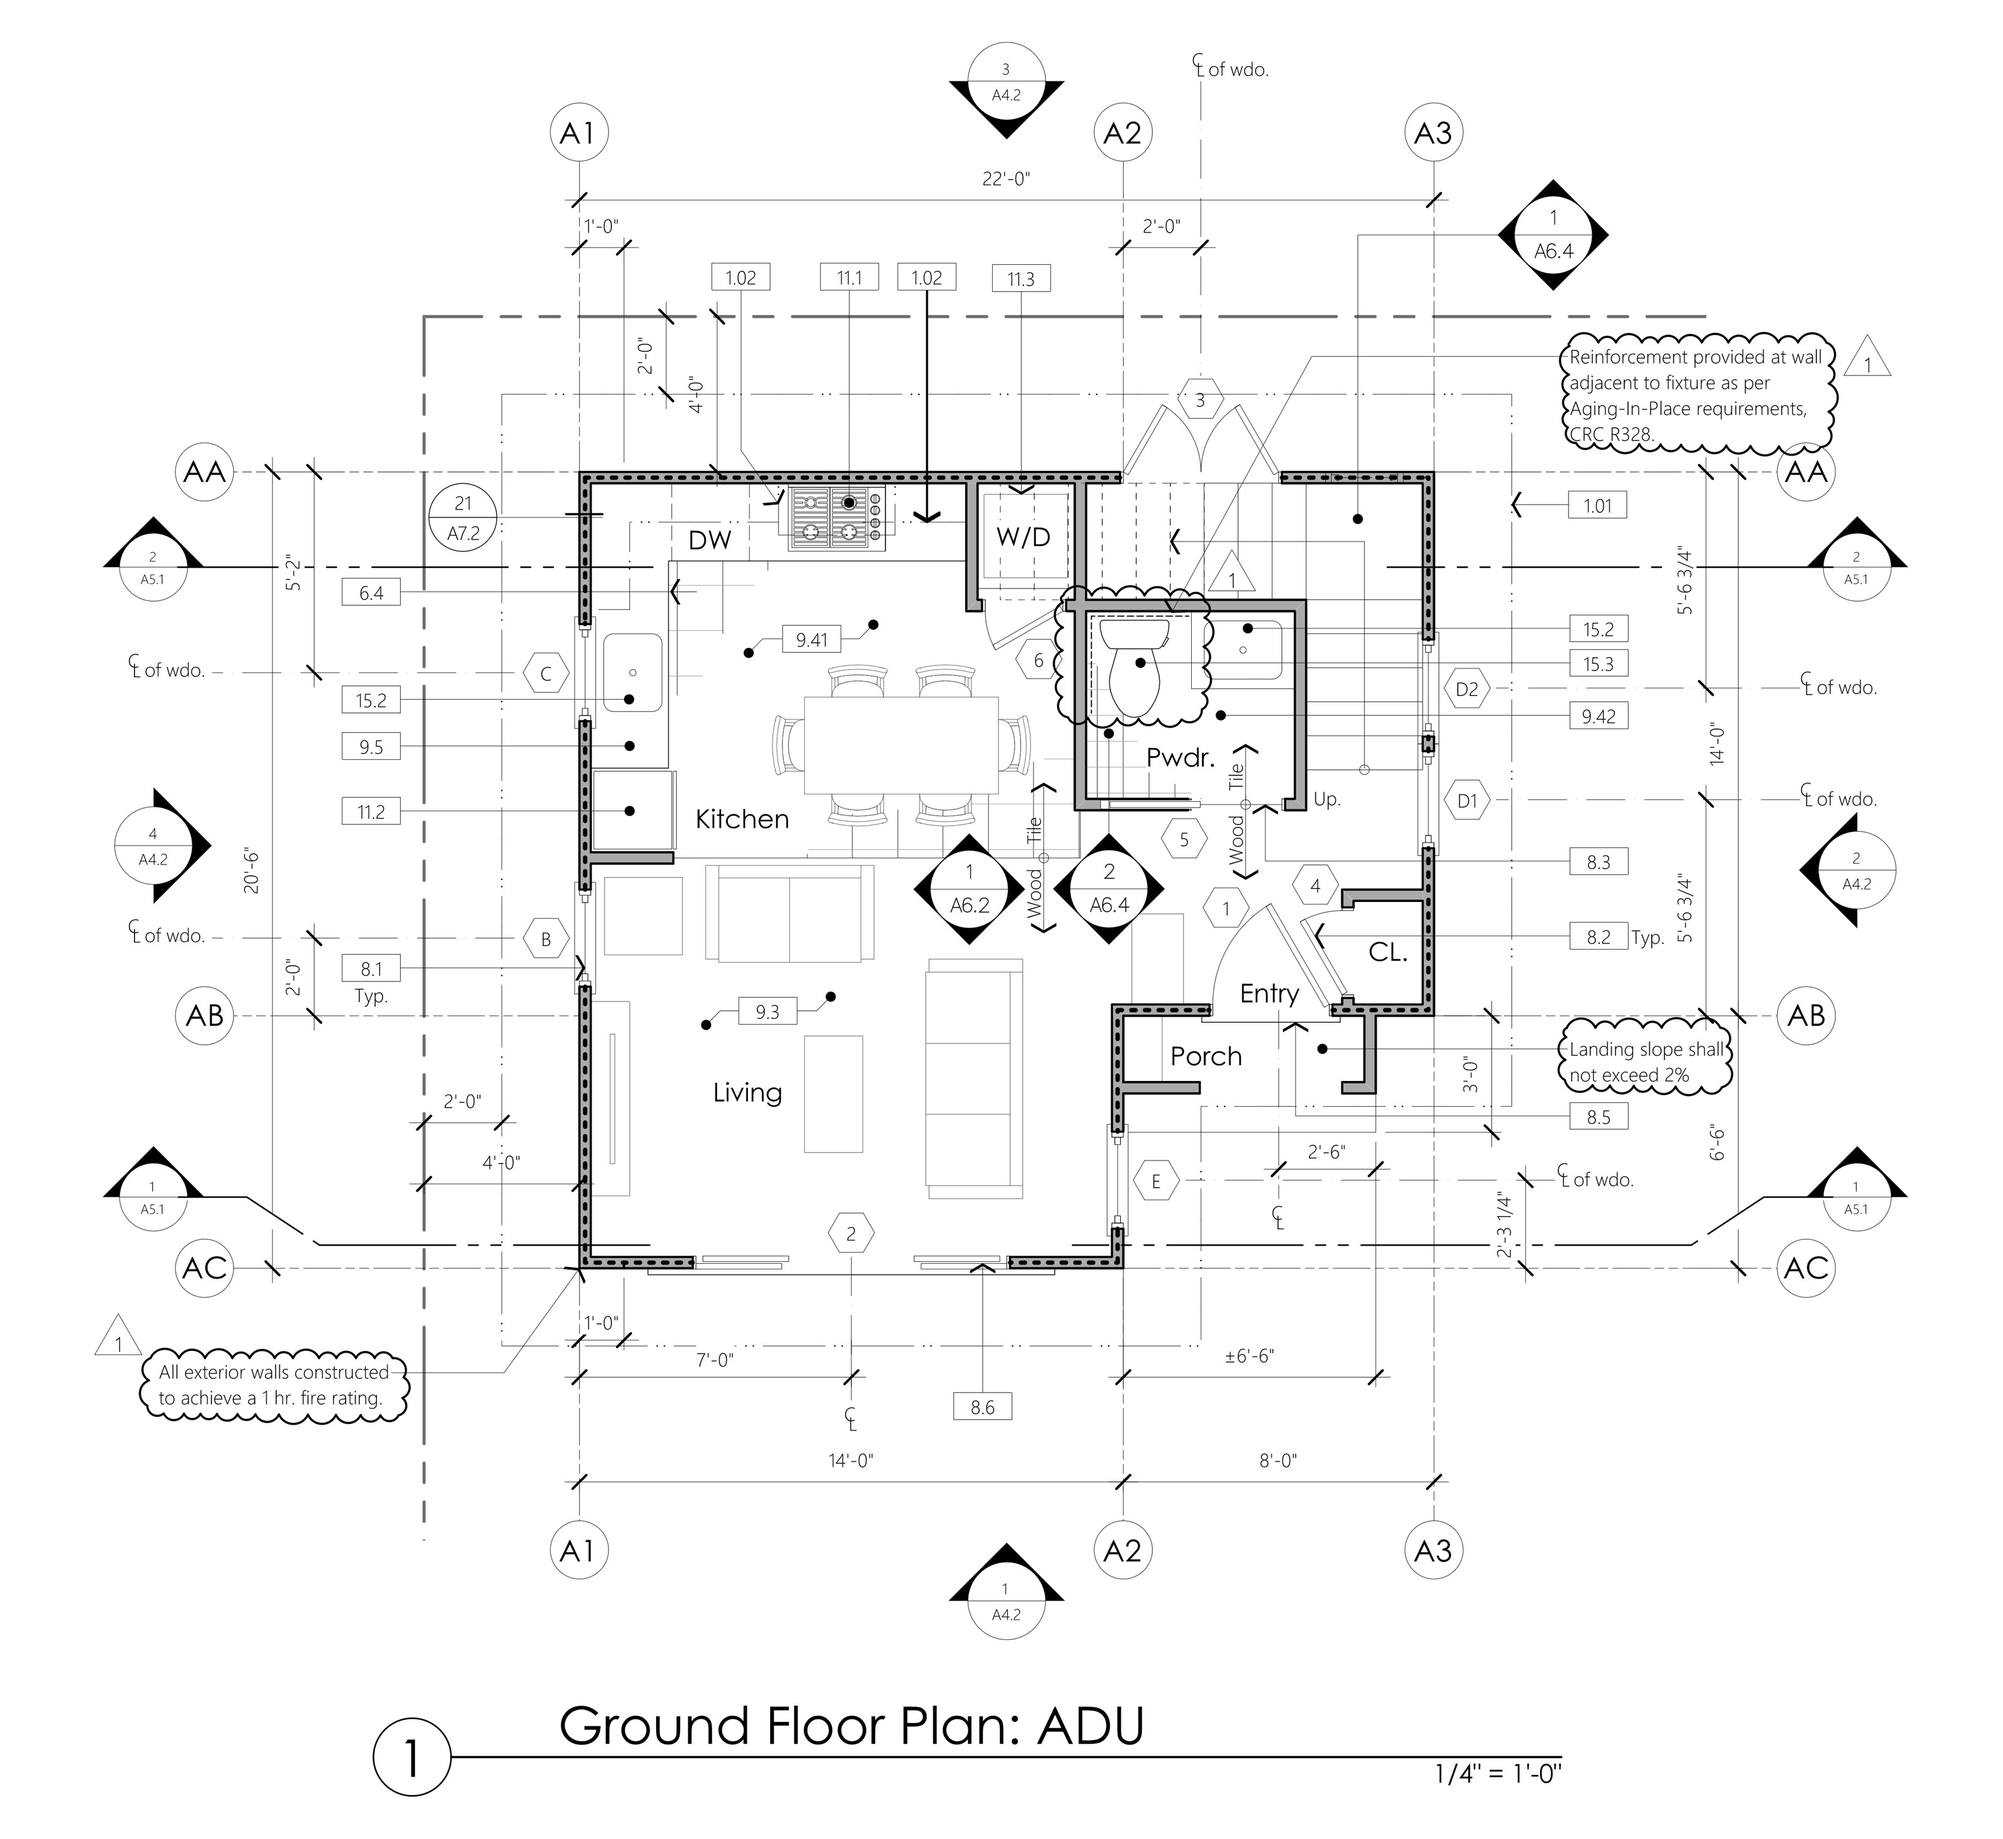
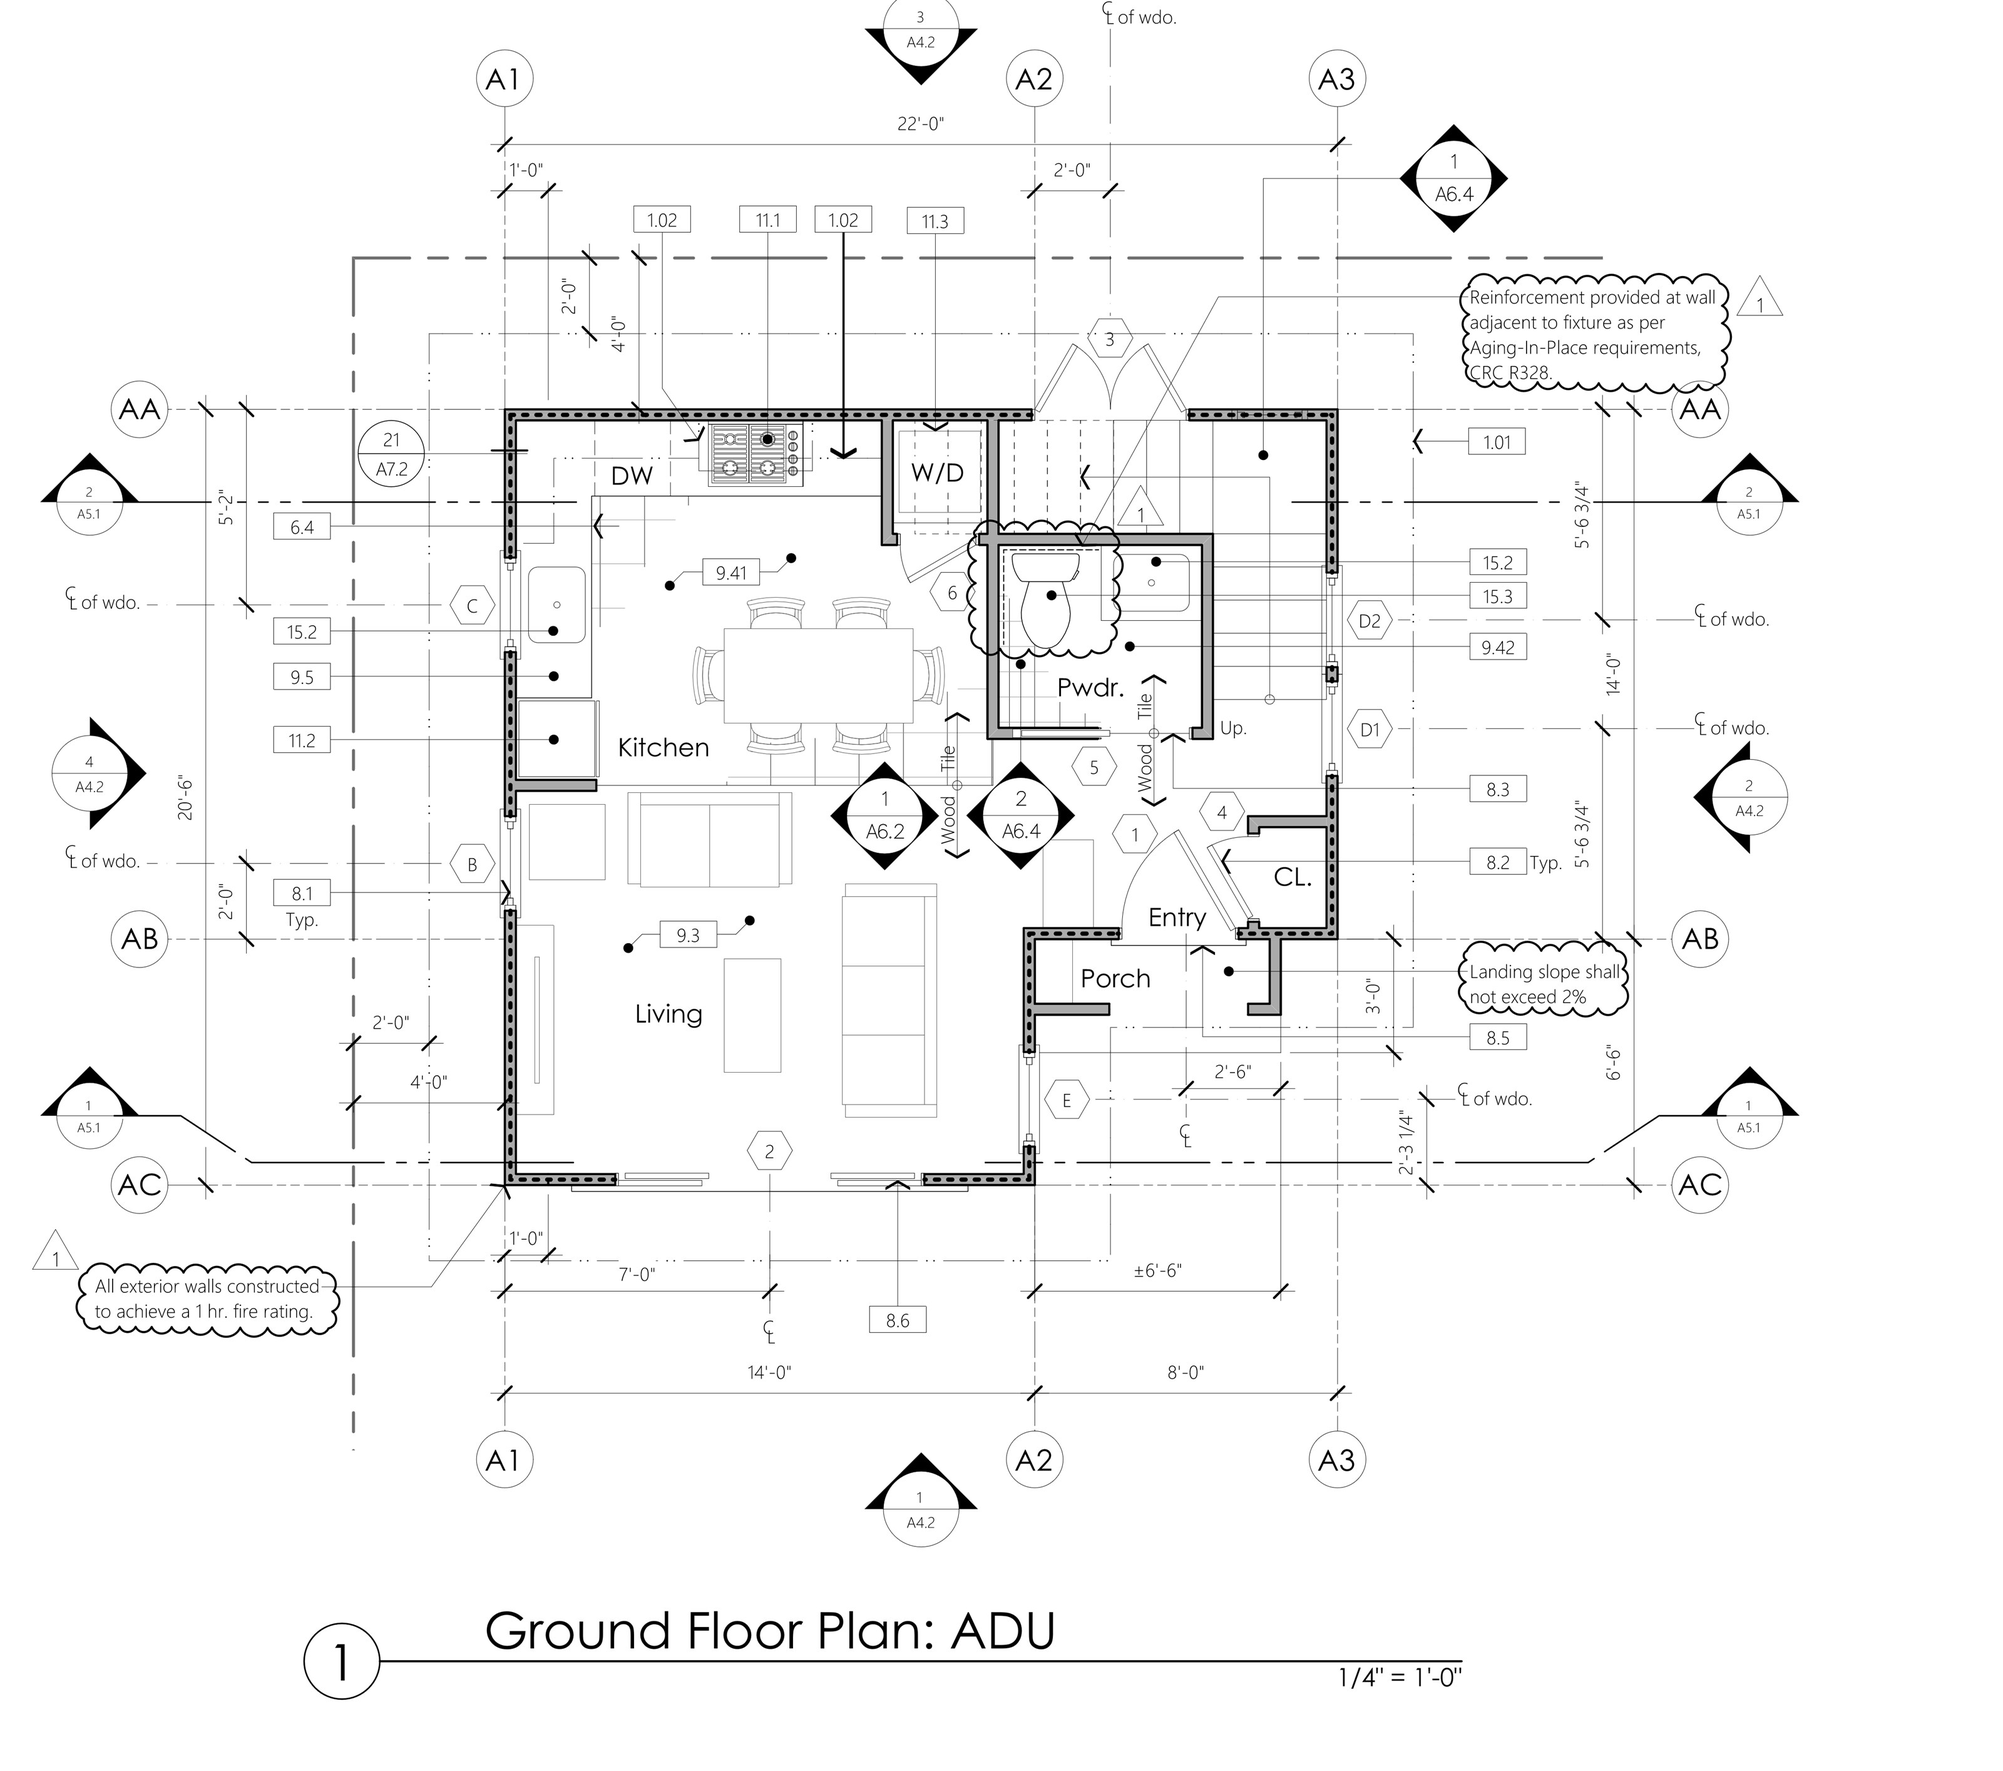
Burlingame ADU: Two Story Option 1 first in the options carousel, plans registered on the A1/AA grid lines so walls stack slide to slide, smaller sketch plans on mobile (mobileSlide option)

diff --git a/js/projects.js b/js/projects.js
@@ -40,6 +40,8 @@
                                                      (default: reversed, top floor first),
                                                      width: "100%" sets the image width,
                                                      note: "..." a description under every slide,
+                                                     mobileSlide: "70%" each swipe slide's share of
+                                                     the phone width (default 86%),
                                                      alignBottom: true sits shorter slides on the
                                                      bottom edge instead of the top
               An image can open a carousel level on click (web): opens: { carousel: "x", level: 0 }
@@ -68,7 +70,7 @@
 */
 
 // Bump whenever an image file is replaced under the same name, so browsers fetch the new one
-const IMAGE_VERSION = 29;
+const IMAGE_VERSION = 30;
 
 const CATEGORIES = [
   { id: "academic", label: "Academic", prefix: "A" },
@@ -569,9 +571,9 @@ const PROJECTS = [
         alignBottom: true,
         arrowsOut: true,
         images: [
-          { src: "assets/img/projects/burlingame-adu/option-1.jpg", ratio: 3.2553, caption: "Single Story ADU", tab: "Single Story" },
           { src: "assets/img/projects/burlingame-adu/option-2.jpg", ratio: 2.9144, caption: "Two Story ADU, Option 1", tab: "Two Story 1" },
           { src: "assets/img/projects/burlingame-adu/option-3.jpg", ratio: 3.7647, caption: "Two Story ADU, Option 2", tab: "Two Story 2" },
+          { src: "assets/img/projects/burlingame-adu/option-1.jpg", ratio: 3.2553, caption: "Single Story ADU", tab: "Single Story" },
         ],
       },
       {
@@ -583,9 +585,10 @@ const PROJECTS = [
         ],
       },
       {
-        layout: "carousel", // mobile: the same two plans, one at a time and larger
+        layout: "carousel", // mobile: the same two plans, one at a time
         mobileOnly: true,
         mobileSwipe: true,
+        mobileSlide: "69%", // about 0.8x the usual size; the sketches show their flaws when large
         list: true,
         images: [
           { src: "assets/img/projects/burlingame-adu/sketch-plan-1.jpg", ratio: 1.0336, caption: "Ground Floor", captionInset: "8.9%", tab: "Ground Floor" },
@@ -599,9 +602,10 @@ const PROJECTS = [
         mobileSwipe: true,
         alignBottom: true,
         images: [
-          { src: "assets/img/projects/burlingame-adu/plan-ground.jpg", ratio: 1.0892, tab: "Ground Floor" },
-          { src: "assets/img/projects/burlingame-adu/plan-second.jpg", ratio: 1.0833, tab: "Second Floor" },
-          { src: "assets/img/projects/burlingame-adu/plan-ceiling.jpg", ratio: 1.1494, tab: "Ceiling" },
+          // all four cropped with one window placed from the A1 / AA grid lines, so walls stack slide to slide
+          { src: "assets/img/projects/burlingame-adu/plan-ground.jpg", ratio: 1.1307, tab: "Ground Floor" },
+          { src: "assets/img/projects/burlingame-adu/plan-second.jpg", ratio: 1.1307, tab: "Second Floor" },
+          { src: "assets/img/projects/burlingame-adu/plan-ceiling.jpg", ratio: 1.1307, tab: "Ceiling" },
           { src: "assets/img/projects/burlingame-adu/plan-roof.jpg", ratio: 1.1307, tab: "Roof" },
         ],
       },

diff --git a/js/main.js b/js/main.js
@@ -349,7 +349,7 @@
       <figure class="gallery-carousel${block.arrowsOut ? " is-arrows-out" : ""}${block.hideOnMobile ? " hide-mobile" : ""}${block.mobileOnly ? " mobile-only" : ""}${block.mobileSwipe ? " is-swipe" : ""}${block.alignBottom ? " is-bottom" : ""}"${block.id ? ` data-id="${block.id}"` : ""}${
         block.list ? ` data-list="1"` : ""
       }${block.revealEarly ? ` data-early="${block.alignTo ?? 1}"` : ""}${block.mobileSwipe ? ` data-swipe="1"` : ""
-      }${block.width ? ` style="--stage-w:${block.width}"` : ""} data-tabs="${escapeHTML(JSON.stringify(names))}">
+      }${block.width || block.mobileSlide ? ` style="${block.width ? `--stage-w:${block.width};` : ""}${block.mobileSlide ? `--slide-w:${block.mobileSlide}` : ""}"` : ""} data-tabs="${escapeHTML(JSON.stringify(names))}">
         <div class="carousel-body">${arrow("prev")}<div class="carousel-stage">${slides}</div>${arrow("next")}</div>${
           block.mobileSwipe ? `<div class="carousel-dots" aria-hidden="true">${block.images.map(() => "<span></span>").join("")}</div>` : ""
         }

diff --git a/project.html b/project.html
@@ -29,7 +29,7 @@
   <link rel="icon" href="assets/img/favicon.svg" type="image/svg+xml">
   <link rel="icon" href="assets/img/favicon-32.png" sizes="32x32" type="image/png">
   <link rel="apple-touch-icon" href="assets/img/apple-touch-icon.png">
-  <link rel="stylesheet" href="css/style.css?v=79">
+  <link rel="stylesheet" href="css/style.css?v=80">
 </head>
 <body data-page="project">
 
@@ -52,7 +52,7 @@
     <article class="project" id="project"></article>
   </main>
 
-  <script src="js/projects.js?v=79"></script>
-  <script src="js/main.js?v=79"></script>
+  <script src="js/projects.js?v=80"></script>
+  <script src="js/main.js?v=80"></script>
 </body>
 </html>

diff --git a/index.html b/index.html
@@ -34,7 +34,7 @@
   <link rel="preconnect" href="https://fonts.googleapis.com">
   <link rel="preconnect" href="https://fonts.gstatic.com" crossorigin>
   <link rel="stylesheet" href="https://fonts.googleapis.com/css2?family=Inter:wght@400;700&display=swap">
-  <link rel="stylesheet" href="css/style.css?v=79">
+  <link rel="stylesheet" href="css/style.css?v=80">
 </head>
 <body data-page="index">
 
@@ -161,7 +161,7 @@
     </div>
   </main>
 
-  <script src="js/projects.js?v=79"></script>
-  <script src="js/main.js?v=79"></script>
+  <script src="js/projects.js?v=80"></script>
+  <script src="js/main.js?v=80"></script>
 </body>
 </html>

diff --git a/css/style.css b/css/style.css
@@ -1002,7 +1002,7 @@ picture {
   }
 
   .gallery-carousel.is-swipe .carousel-slide {
-    flex: 0 0 86%;
+    flex: 0 0 var(--slide-w, 86%); /* mobileSlide sets a smaller share */
     scroll-snap-align: start;
   }
 
